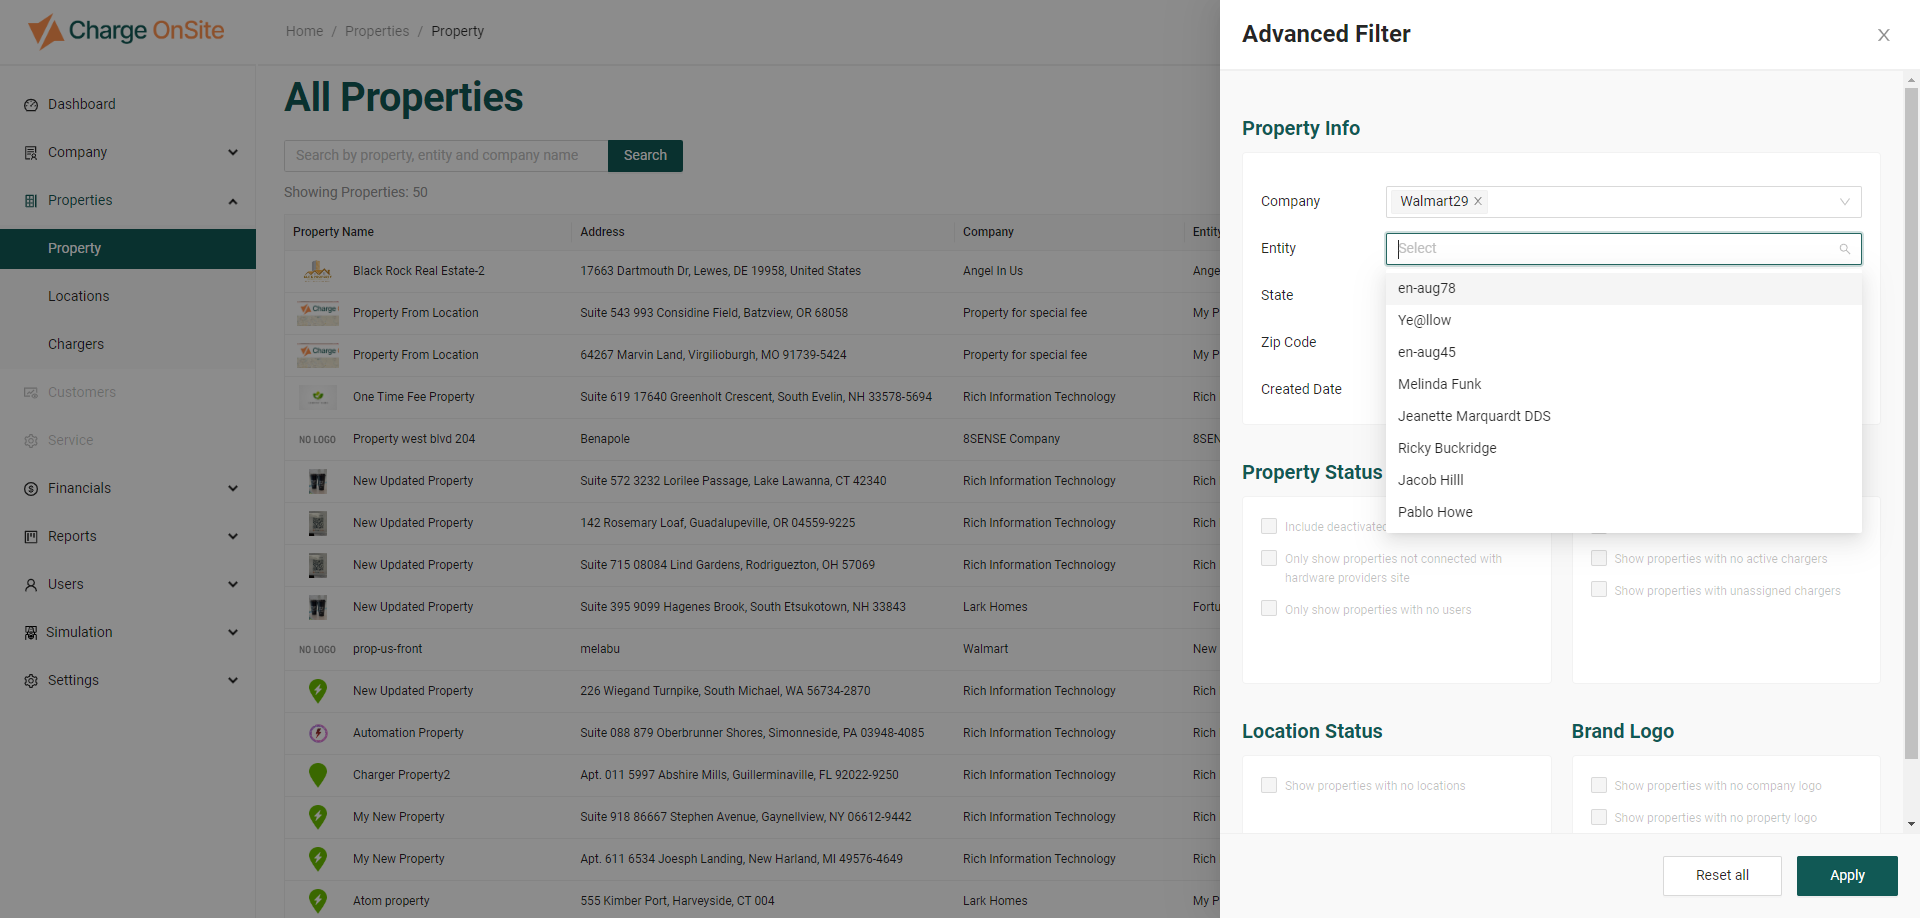
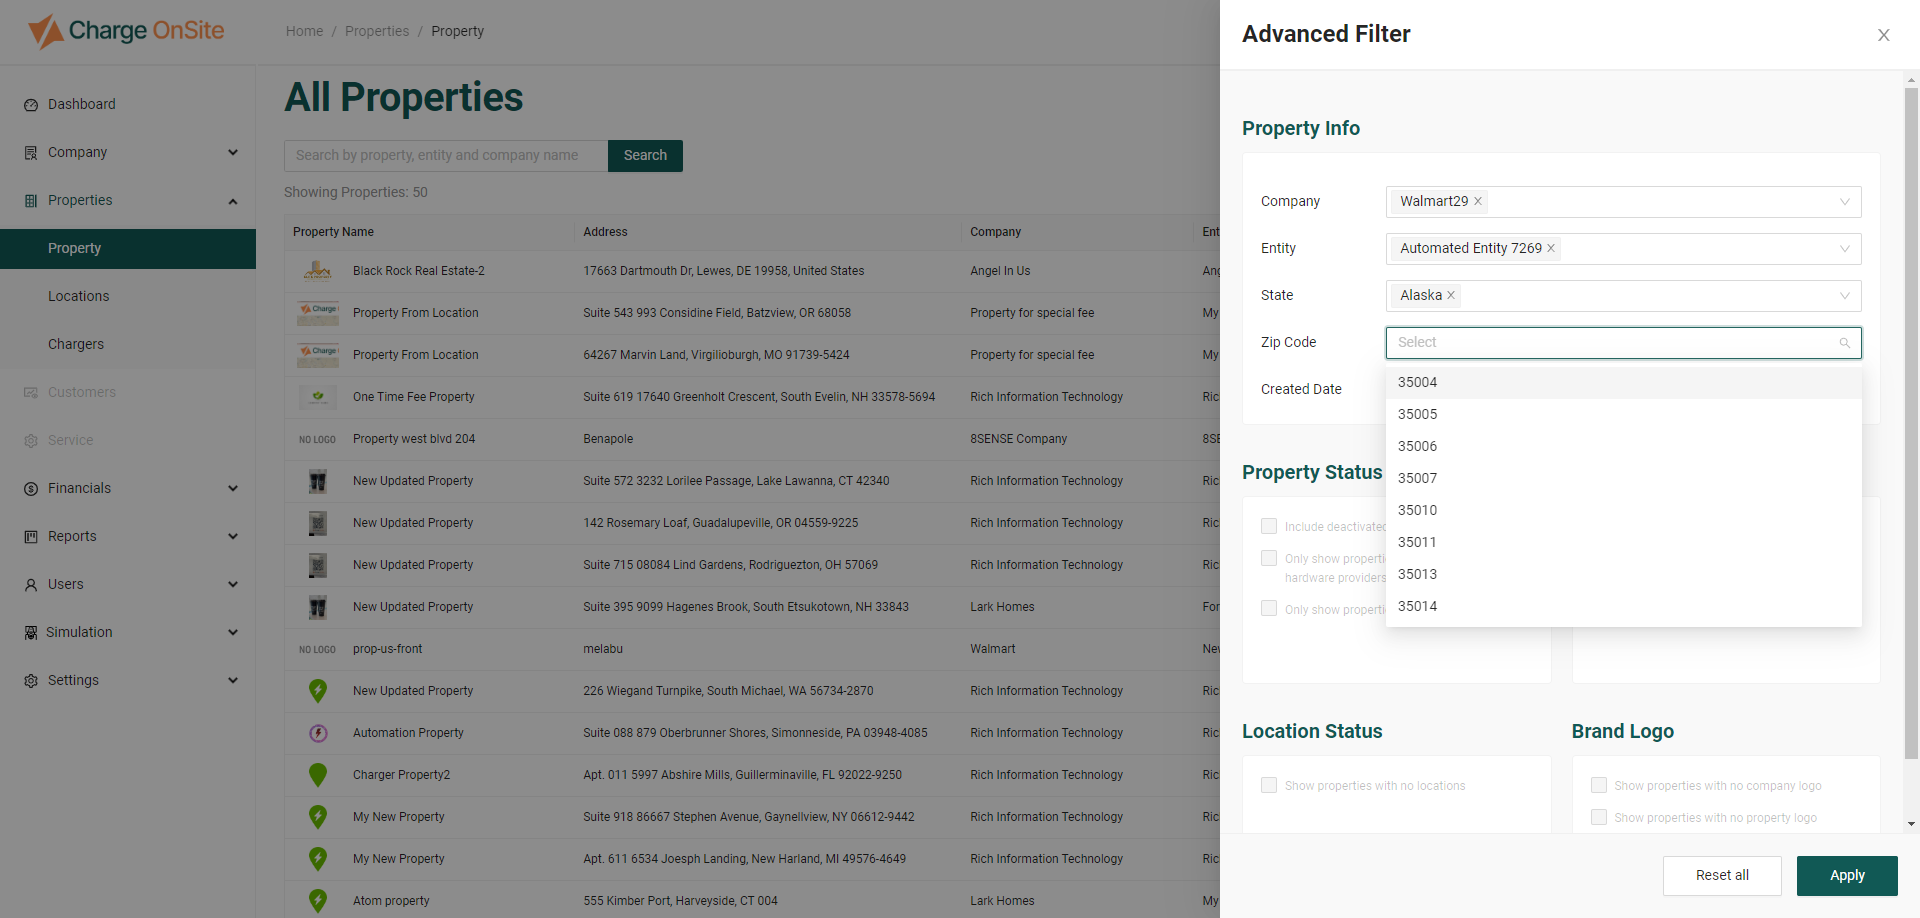
2th August

diff --git a/Updated Cos_Automation/Selenium_automated_testCases (Updated)/src/test/java/tests/US13SearcandFileterProperties/SearchPrropertiesTestCases.java b/Updated Cos_Automation/Selenium_automated_testCases (Updated)/src/test/java/tests/US13SearcandFileterProperties/SearchPrropertiesTestCases.java
@@ -36,7 +36,6 @@ public class SearchPrropertiesTestCases extends BaseTest {
     @Test(priority = 2)//Done
     @TestParameters(testCaseId = {"TC-2"})
     public void TC_2_VerifyBrowserhasRereshafterProvidingSpaceinSearchBar() throws InterruptedException, IOException {
-
         LoginPage loginPage = new LoginPage(driver);
         Dashboard dashboard=new Dashboard(driver);
         SearchCompany searchcompany=new SearchCompany(driver);
@@ -214,15 +213,14 @@ public class SearchPrropertiesTestCases extends BaseTest {
         LoginPage loginPage = new LoginPage(driver);
         Dashboard dashboard=new Dashboard(driver);
         SearchCompany searchcompany=new SearchCompany(driver);
-        EditCompany editCompany=new EditCompany(driver);
         SearchandFilterProperties searchandfilter=new SearchandFilterProperties(driver);
-        CreateProperty property = new CreateProperty(driver);
+        ChargerListPropertyAdmin list = new ChargerListPropertyAdmin(driver);
         loginPage.VerifyValidLogin();
         Assert.assertTrue(dashboard.GotoDashboard());
         Assert.assertTrue(dashboard.clickonPropertiesFromLeftMenu());
         Assert.assertTrue(dashboard.clickonProperty());
         Assert.assertTrue(searchandfilter.clickonLoadMoreButton());
-        Assert.assertTrue(searchandfilter.verifyMorepropertiesareShowingAfterPressingLoadMoreButton());
+        Assert.assertTrue(list.verifyLoadMoreButtonAction());
     }
 
     @Test(priority = 13)//Done
@@ -234,32 +232,32 @@ public class SearchPrropertiesTestCases extends BaseTest {
         EditCompany editCompany=new EditCompany(driver);
         SearchandFilterProperties searchandfilter=new SearchandFilterProperties(driver);
         CreateProperty property = new CreateProperty(driver);
+        ChargerListPropertyAdmin list = new ChargerListPropertyAdmin(driver);
         loginPage.VerifyValidLogin();
         Assert.assertTrue(dashboard.RefreshBrowser());
         /*Assert.assertTrue(dashboard.clickonPropertiesFromLeftMenu());
         Assert.assertTrue(dashboard.clickonProperty());*/
-        Assert.assertTrue(searchandfilter.clickonLoadMoreButton());
-        Assert.assertTrue(searchandfilter.verifyMorepropertiesareShowingAfterPressingLoadMoreButton());
+        Assert.assertTrue(list.verifyLoadMoreButtonAction());
     }
 
-    @Test(priority = 14)//Done
-    @TestParameters(testCaseId = {"TC-18"})
-    public void TC_18_VerifyCountonPropertyPageAfterSearchingAnyProperty () throws InterruptedException, IOException {
-        LoginPage loginPage = new LoginPage(driver);
-        Dashboard dashboard=new Dashboard(driver);
-        SearchCompany searchcompany=new SearchCompany(driver);
-        EditCompany editCompany=new EditCompany(driver);
-        SearchandFilterProperties searchandfilter=new SearchandFilterProperties(driver);
-        CreateProperty property = new CreateProperty(driver);
-        loginPage.VerifyValidLogin();
-        Assert.assertTrue(dashboard.GotoDashboard());
-        Assert.assertTrue(dashboard.clickonPropertiesFromLeftMenu());
-        Assert.assertTrue(dashboard.clickonProperty());
-        Assert.assertTrue(property.searchPropertyByName(prop.getProperty("PropertyName")));
-        Assert.assertTrue(editCompany.ClickonSearchButton());
-        Assert.assertTrue(searchandfilter.clickonLoadMoreButton());
-        Assert.assertTrue(searchandfilter.verifyPropertiesArematchingWithSearchedProperty());
-    }
+//    @Test(priority = 14)//Done
+//    @TestParameters(testCaseId = {"TC-18"})
+//    public void TC_18_VerifyCountonPropertyPageAfterSearchingAnyProperty () throws InterruptedException, IOException {
+//        LoginPage loginPage = new LoginPage(driver);
+//        Dashboard dashboard=new Dashboard(driver);
+//        SearchCompany searchcompany=new SearchCompany(driver);
+//        EditCompany editCompany=new EditCompany(driver);
+//        SearchandFilterProperties searchandfilter=new SearchandFilterProperties(driver);
+//        CreateProperty property = new CreateProperty(driver);
+//        loginPage.VerifyValidLogin();
+//        Assert.assertTrue(dashboard.GotoDashboard());
+//        Assert.assertTrue(dashboard.clickonPropertiesFromLeftMenu());
+//        Assert.assertTrue(dashboard.clickonProperty());
+//        Assert.assertTrue(property.searchPropertyByName(prop.getProperty("PropertyName")));
+//        Assert.assertTrue(editCompany.ClickonSearchButton());
+//        Assert.assertTrue(searchandfilter.clickonLoadMoreButton());
+//        Assert.assertTrue(searchandfilter.verifyPropertiesArematchingWithSearchedProperty());
+//    }
 
     @Test(priority = 15)//Done
     @TestParameters(testCaseId = {"TC-19"})
@@ -781,21 +779,21 @@ public class SearchPrropertiesTestCases extends BaseTest {
 
     }
 
-    @Test(priority = 34)//Done
-    @TestParameters(testCaseId = {"TC-42"})
-    public void TC_42_CheckWhatHappensWhenAdminCliksonLoadMoreButton () throws InterruptedException, IOException {
-        LoginPage loginPage = new LoginPage(driver);
-        Dashboard dashboard=new Dashboard(driver);
-        SearchCompany searchcompany=new SearchCompany(driver);
-        SearchandFilterProperties searchandfilter=new SearchandFilterProperties(driver);
-        loginPage.VerifyValidLogin();
-        Assert.assertTrue(dashboard.RefreshBrowser());
-        Assert.assertTrue(dashboard.GotoDashboard());
-        Assert.assertTrue(dashboard.clickonPropertiesFromLeftMenu());
-        Assert.assertTrue(dashboard.clickonProperty());
-        Assert.assertTrue(searchcompany.ClickonLoadMoreButton());
-        Assert.assertTrue(searchandfilter.verifyMorepropertiesareShowingAfterPressingLoadMoreButton());
-    }
+//    @Test(priority = 34)//Done
+//    @TestParameters(testCaseId = {"TC-42"})
+//    public void TC_42_CheckWhatHappensWhenAdminCliksonLoadMoreButton () throws InterruptedException, IOException {
+//        LoginPage loginPage = new LoginPage(driver);
+//        Dashboard dashboard=new Dashboard(driver);
+//        SearchCompany searchcompany=new SearchCompany(driver);
+//        SearchandFilterProperties searchandfilter=new SearchandFilterProperties(driver);
+//        loginPage.VerifyValidLogin();
+//        Assert.assertTrue(dashboard.RefreshBrowser());
+//        Assert.assertTrue(dashboard.GotoDashboard());
+//        Assert.assertTrue(dashboard.clickonPropertiesFromLeftMenu());
+//        Assert.assertTrue(dashboard.clickonProperty());
+//        Assert.assertTrue(searchcompany.ClickonLoadMoreButton());
+//        Assert.assertTrue(searchandfilter.verifyMorepropertiesareShowingAfterPressingLoadMoreButton());
+//    }
 
     @Test(priority = 35)//Done
     @TestParameters(testCaseId = {"TC-43"})

diff --git a/Updated Cos_Automation/Selenium_automated_testCases (Updated)/src/test/java/pages/SearchandFilterProperties.java b/Updated Cos_Automation/Selenium_automated_testCases (Updated)/src/test/java/pages/SearchandFilterProperties.java
@@ -30,6 +30,7 @@ public class SearchandFilterProperties extends BasePage {
     By count = By.xpath("//span[contains(@class,'showCount')]");
     By compnaydropdown = By.xpath("(//div[@class='ant-select-selection-overflow'])[1]");
     By entitydropdown = By.xpath("(//div[@class='ant-select-selection-overflow'])[2]");
+    By entityFieldToWrite = By.xpath("(//input[@class='ant-select-selection-search-input'])[2]");
     By cmpnyname = By.xpath("(//div[@class='ant-select-item-option-content'])[2]");
     By entityname = By.xpath("(//div[contains(.,'Unknown Entity')])[10]");
     By entityname1 = By.xpath("(//div[@class='ant-select-item-option-content'][contains(.,'New Entity')])[2]");
@@ -37,7 +38,7 @@ public class SearchandFilterProperties extends BasePage {
     By zipdropdown = By.xpath("(//div[@class='ant-select-selection-overflow'])[4]");
     By locationcount = By.xpath("(//span[@class='underline cursor'])[3]");
     By chargercount = By.xpath("(//span[@class='underline cursor'])[4]");
-    By loadmorebtn = By.xpath("//button[contains(.,'Load 3 More')]");
+    By loadmorebtn = By.xpath("//button[@class='ant-btn ant-btn-default primary-color']");
     By drawertitle = By.xpath("//div[@class='ant-drawer-title'][contains(.,'Advanced Filter')]");
 
     CreateCompany company= new CreateCompany(driver);
@@ -92,7 +93,8 @@ public class SearchandFilterProperties extends BasePage {
     }
 
     public boolean clickonLoadMoreButton() {
-        waitVisibility(loadmorebtn);
+        WebElement LoadMore = driver.findElement(loadmorebtn);
+        waitToAvoidStaleness(LoadMore);
         click(loadmorebtn);
         return true;
     }
@@ -100,9 +102,11 @@ public class SearchandFilterProperties extends BasePage {
     public boolean selectEntityNameFromAdvanceFilter() throws InterruptedException {
         // company.waitForSpinner();
         Thread.sleep(3000);
-        click(entityname);
+        writeText(entityFieldToWrite,prop.getProperty("Entity2"));
+        WebElement selectitem = driver.findElement(entityFieldToWrite);
+        Thread.sleep(3000);
+        selectitem.sendKeys(Keys.ENTER);
         click(searchcompany.advancefilter);
-
         return true;
     }
 
@@ -302,17 +306,6 @@ public class SearchandFilterProperties extends BasePage {
         return true;
     }
 
-    public boolean verifyMorepropertiesareShowingAfterPressingLoadMoreButton() {
-        company.waitForSpinner();
-      //  waitVisibility(ascendingcompanyname);
-        if(driver.getPageSource().contains("Showing Properties: 4"))
-        {
-            System.out.println("2 more properties are showing after Clicking on Load more button. Total 4 companies are showing");
-        }else{
-            System.out.println("Something Went Wrong!!");
-        }
-        return true;
-    }
 
     public boolean verifyAdvanceFilterDrawerHasClosed() throws InterruptedException {
         Thread.sleep(2000);

diff --git a/Updated Cos_Automation/Selenium_automated_testCases (Updated)/src/test/java/pages/ChargerListPropertyAdmin.java b/Updated Cos_Automation/Selenium_automated_testCases (Updated)/src/test/java/pages/ChargerListPropertyAdmin.java
@@ -163,13 +163,13 @@ public class ChargerListPropertyAdmin extends BasePage {
         waitforPresence(LoadMoreButton);
         int PrevRowCount = driver.findElements(Rows).size();
         String LoadButtonText = driver.findElement(LoadMoreButton).getText();
-        System.out.println(LoadButtonText);
+        System.out.println("Text of Load more button: "+LoadButtonText);
         String KeepingNumbersOnly = LoadButtonText.replaceAll("[^0-9]","");
         System.out.println(KeepingNumbersOnly);
         int LoadButtonNumber = Integer.parseInt(KeepingNumbersOnly);
-        System.out.println(LoadButtonNumber);
+        System.out.println("Load count: "+LoadButtonNumber);
         int ExpectedRowCount = PrevRowCount+LoadButtonNumber;
-        driver.findElement(LoadMoreButton).click();
+        click(LoadMoreButton);
         Thread.sleep(2000);
         int LatestRowCount = driver.findElements(Rows).size();
         System.out.println(LatestRowCount);

diff --git a/Updated Cos_Automation/Selenium_automated_testCases (Updated)/src/test/java/pages/BasePage.java b/Updated Cos_Automation/Selenium_automated_testCases (Updated)/src/test/java/pages/BasePage.java
@@ -28,6 +28,12 @@ public class BasePage {
         return true;
     }
 
+    public boolean waitToAvoidStaleness(WebElement element) {
+        wait.until(ExpectedConditions.stalenessOf(element));
+        //wait.until(ExpectedConditions.elementToBeClickable(elementBy));
+        return true;
+    }
+
     public void waitelemtclickable(By elementBy) {
         //driver.manage().timeouts().implicitlyWait(20, TimeUnit.SECONDS);
         wait.until(ExpectedConditions.elementToBeClickable(elementBy));

diff --git a/Updated Cos_Automation/Selenium_automated_testCases (Updated)/src/test/java/pages/Dashboard.java b/Updated Cos_Automation/Selenium_automated_testCases (Updated)/src/test/java/pages/Dashboard.java
@@ -57,11 +57,9 @@ public class Dashboard extends BasePage {
 
     public boolean clickonProperty () throws InterruptedException {
         Thread.sleep(3000);
-//        driver.manage().timeouts().implicitlyWait(Duration.ofSeconds(10));
         //  Createcompany.waitForSpinner();
         waitVisibility(property);
         waitelemtclickable(property);
-        waitelementtobedisplayed(property);
         click(property);
         return true;
     }
